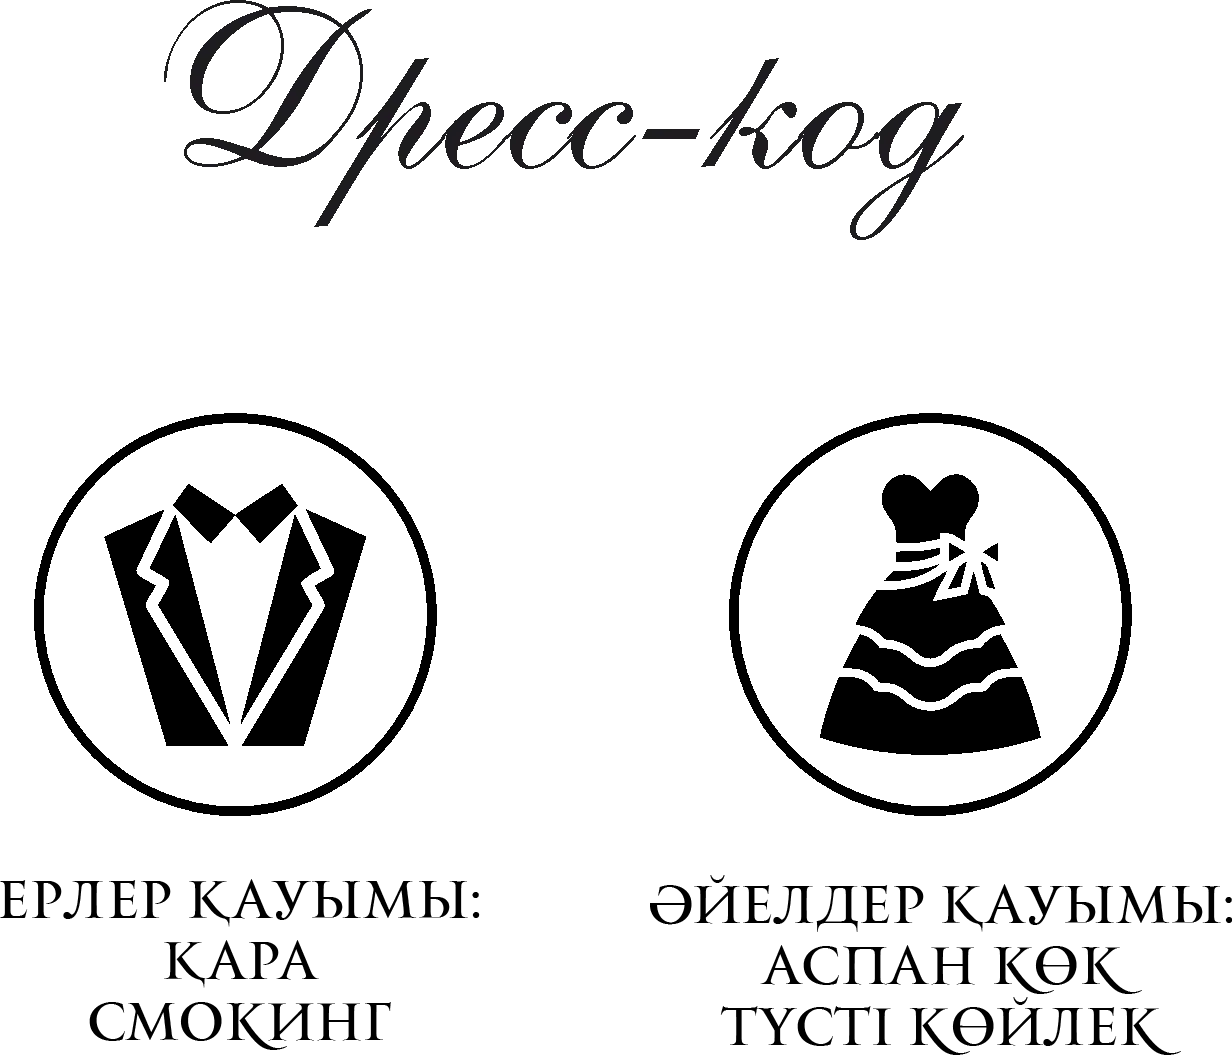
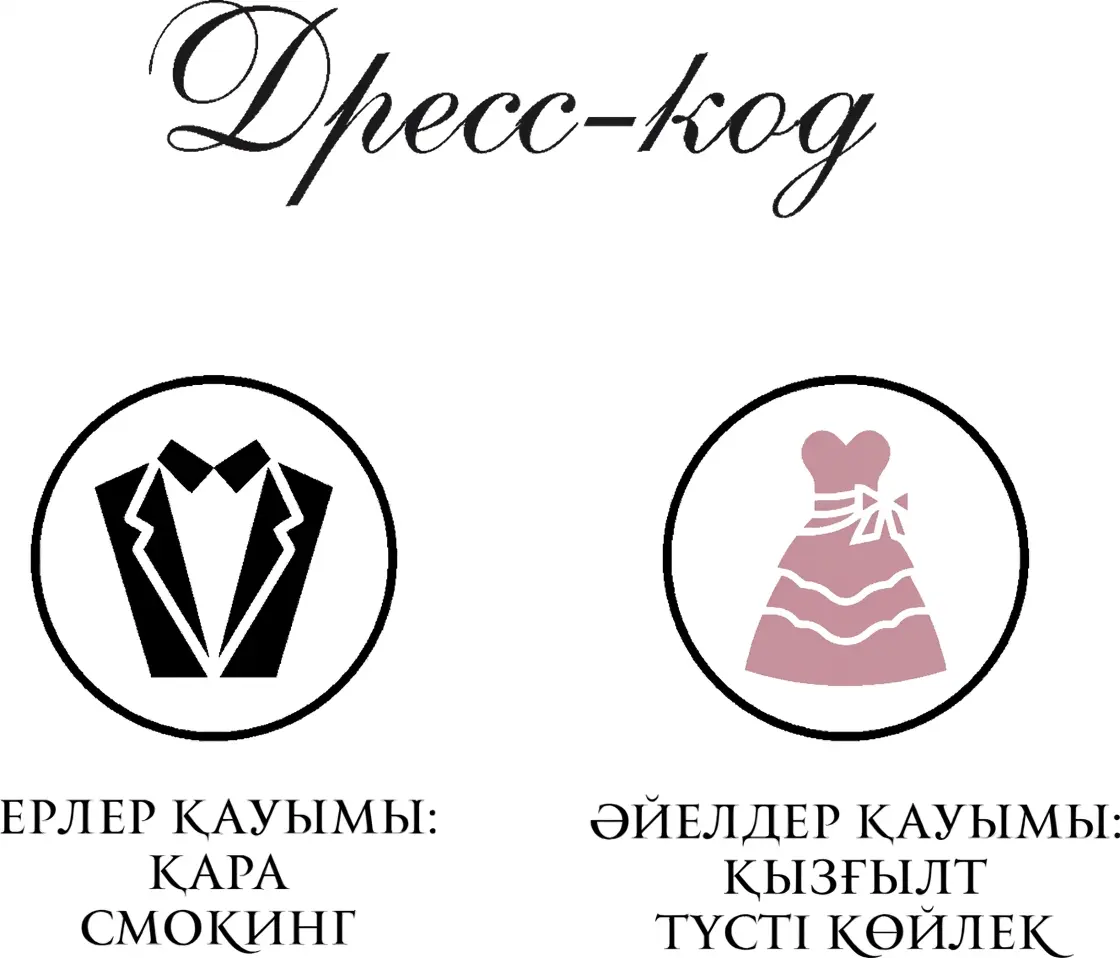
feat: update wedding ui

diff --git a/frontend/app/components/invitation/invitation-greeting.tsx b/frontend/app/components/invitation/invitation-greeting.tsx
@@ -1,5 +1,6 @@
 'use client'
 
+import { Fragment } from 'react'
 import { m } from 'motion/react'
 import type { FadeInMotionProps, InvitationEventConfig } from '@/lib/invitation/types'
 
@@ -8,7 +9,35 @@ type InvitationGreetingProps = {
 	greeting: InvitationEventConfig['greeting']
 }
 
+function GreetingHighlightedName({ children }: { children: string }) {
+	return (
+		<span
+			style={{ fontFamily: 'var(--font-script)' }}
+			className="text-xl text-luxury-gold md:text-2xl"
+		>
+			{children}
+		</span>
+	)
+}
+
+function resolveHighlightNames(greeting: InvitationEventConfig['greeting']): string[] {
+	if (greeting.highlightNames?.length) {
+		return greeting.highlightNames
+	}
+	if (greeting.highlightName) {
+		return [greeting.highlightName]
+	}
+	return []
+}
+
 export function InvitationGreeting({ fadeIn, greeting }: InvitationGreetingProps) {
+	const highlightNames = resolveHighlightNames(greeting)
+	const hasStructuredBody =
+		greeting.bodyBeforeHighlight != null &&
+		greeting.bodyAfterHighlight != null &&
+		highlightNames.length > 0
+	const separator = greeting.highlightSeparator ?? ' мен '
+
 	return (
 		<section className="relative bg-background px-6 pb-10 md:pb-12">
 			<m.div className="relative z-10 mx-auto max-w-lg" {...fadeIn}>
@@ -22,16 +51,21 @@ export function InvitationGreeting({ fadeIn, greeting }: InvitationGreetingProps
 					</p>
 
 					<p className="mx-auto text-base leading-relaxed opacity-85 md:text-lg">
-						{greeting.body ? (
+						{greeting.body && !hasStructuredBody ? (
 							greeting.body
-						) : (
+						) : hasStructuredBody ? (
 							<>
 								{greeting.bodyBeforeHighlight}
-								<span style={{ fontFamily: 'var(--font-script)' }} className="text-xl md:text-2xl">
-									{greeting.highlightName}
-								</span>
+								{highlightNames.map((name, index) => (
+									<Fragment key={name}>
+										{index > 0 ? separator : null}
+										<GreetingHighlightedName>{name}</GreetingHighlightedName>
+									</Fragment>
+								))}
 								{greeting.bodyAfterHighlight}
 							</>
+						) : (
+							greeting.body
 						)}
 					</p>
 				</div>

diff --git a/frontend/app/crm/login/login-form.tsx b/frontend/app/crm/login/login-form.tsx
@@ -32,8 +32,8 @@ export function CrmLoginForm() {
 
 function CrmLoginFormInner() {
 	const { replace } = useRouter()
-	const { get } = useSearchParams()
-	const next = get('next') || '/crm/home'
+	const searchParams = useSearchParams()
+	const next = searchParams.get('next') || '/crm/home'
 	const [email, setEmail] = React.useState('')
 	const [password, setPassword] = React.useState('')
 	const [loading, setLoading] = React.useState(false)

diff --git a/frontend/app/layout.tsx b/frontend/app/layout.tsx
@@ -39,8 +39,8 @@ const greatVibes = Great_Vibes({
 })
 
 export const metadata: Metadata = {
-	title: 'Event CRM Frontend',
-	description: 'Invitation and CRM frontend.',
+	title: 'Wedding CRM',
+	description: 'Той & Қыз ұзату тойын басқару жүйесі.',
 }
 
 export default function RootLayout({

diff --git a/frontend/lib/invitation/assets.ts b/frontend/lib/invitation/assets.ts
@@ -4,7 +4,7 @@ import heroWedding from '@/public/images/wedding/hero_wedding.webp'
 import carving from '@/public/images/share/carving_between_chapters.webp'
 import thread from '@/public/images/share/thread_rotating_red.webp'
 import dress from '@/public/images/invitation/dress.webp'
-import dressTitle from '@/public/images/wedding/dress.webp'
+import dressWedding from '@/public/images/wedding/dress.webp'
 import birds from '@/public/images/share/birds.webp'
 import ownersBackground from '@/public/images/share/owners_background.webp'
 import halal from '@/public/images/share/halal.webp'
@@ -17,7 +17,7 @@ export const invitationImages = {
 	carving,
 	thread,
 	dress,
-	dressTitle,
+	dressWedding,
 	birds,
 	ownersBackground,
 	halal,

diff --git a/frontend/app/components/invitation/invitation-dress-code-attire.tsx b/frontend/app/components/invitation/invitation-dress-code-attire.tsx
@@ -16,7 +16,7 @@ export function InvitationDressCodeAttire({ config, className }: InvitationDress
 		<div className={cn('flex flex-col items-center', className)}>
 			{showTitleImage ? (
 				<Image
-					src={invitationImages.dressTitle}
+					src={invitationImages.dressWedding}
 					alt={config.title ?? 'Дресс-код'}
 					width={480}
 					height={120}

diff --git a/frontend/lib/invitation/load-config.ts b/frontend/lib/invitation/load-config.ts
@@ -24,6 +24,8 @@ const invitationEventConfigSchema = z.object({
 		body: z.string().optional(),
 		bodyBeforeHighlight: z.string().optional(),
 		highlightName: z.string().optional(),
+		highlightNames: z.array(z.string().min(1)).min(1).optional(),
+		highlightSeparator: z.string().optional(),
 		bodyAfterHighlight: z.string().optional(),
 	}),
 	calendar: z.object({

diff --git a/frontend/lib/invitation/types.ts b/frontend/lib/invitation/types.ts
@@ -46,6 +46,8 @@ export type InvitationEventConfigJson = {
 		body?: string
 		bodyBeforeHighlight?: string
 		highlightName?: string
+		highlightNames?: string[]
+		highlightSeparator?: string
 		bodyAfterHighlight?: string
 	}
 	calendar: {